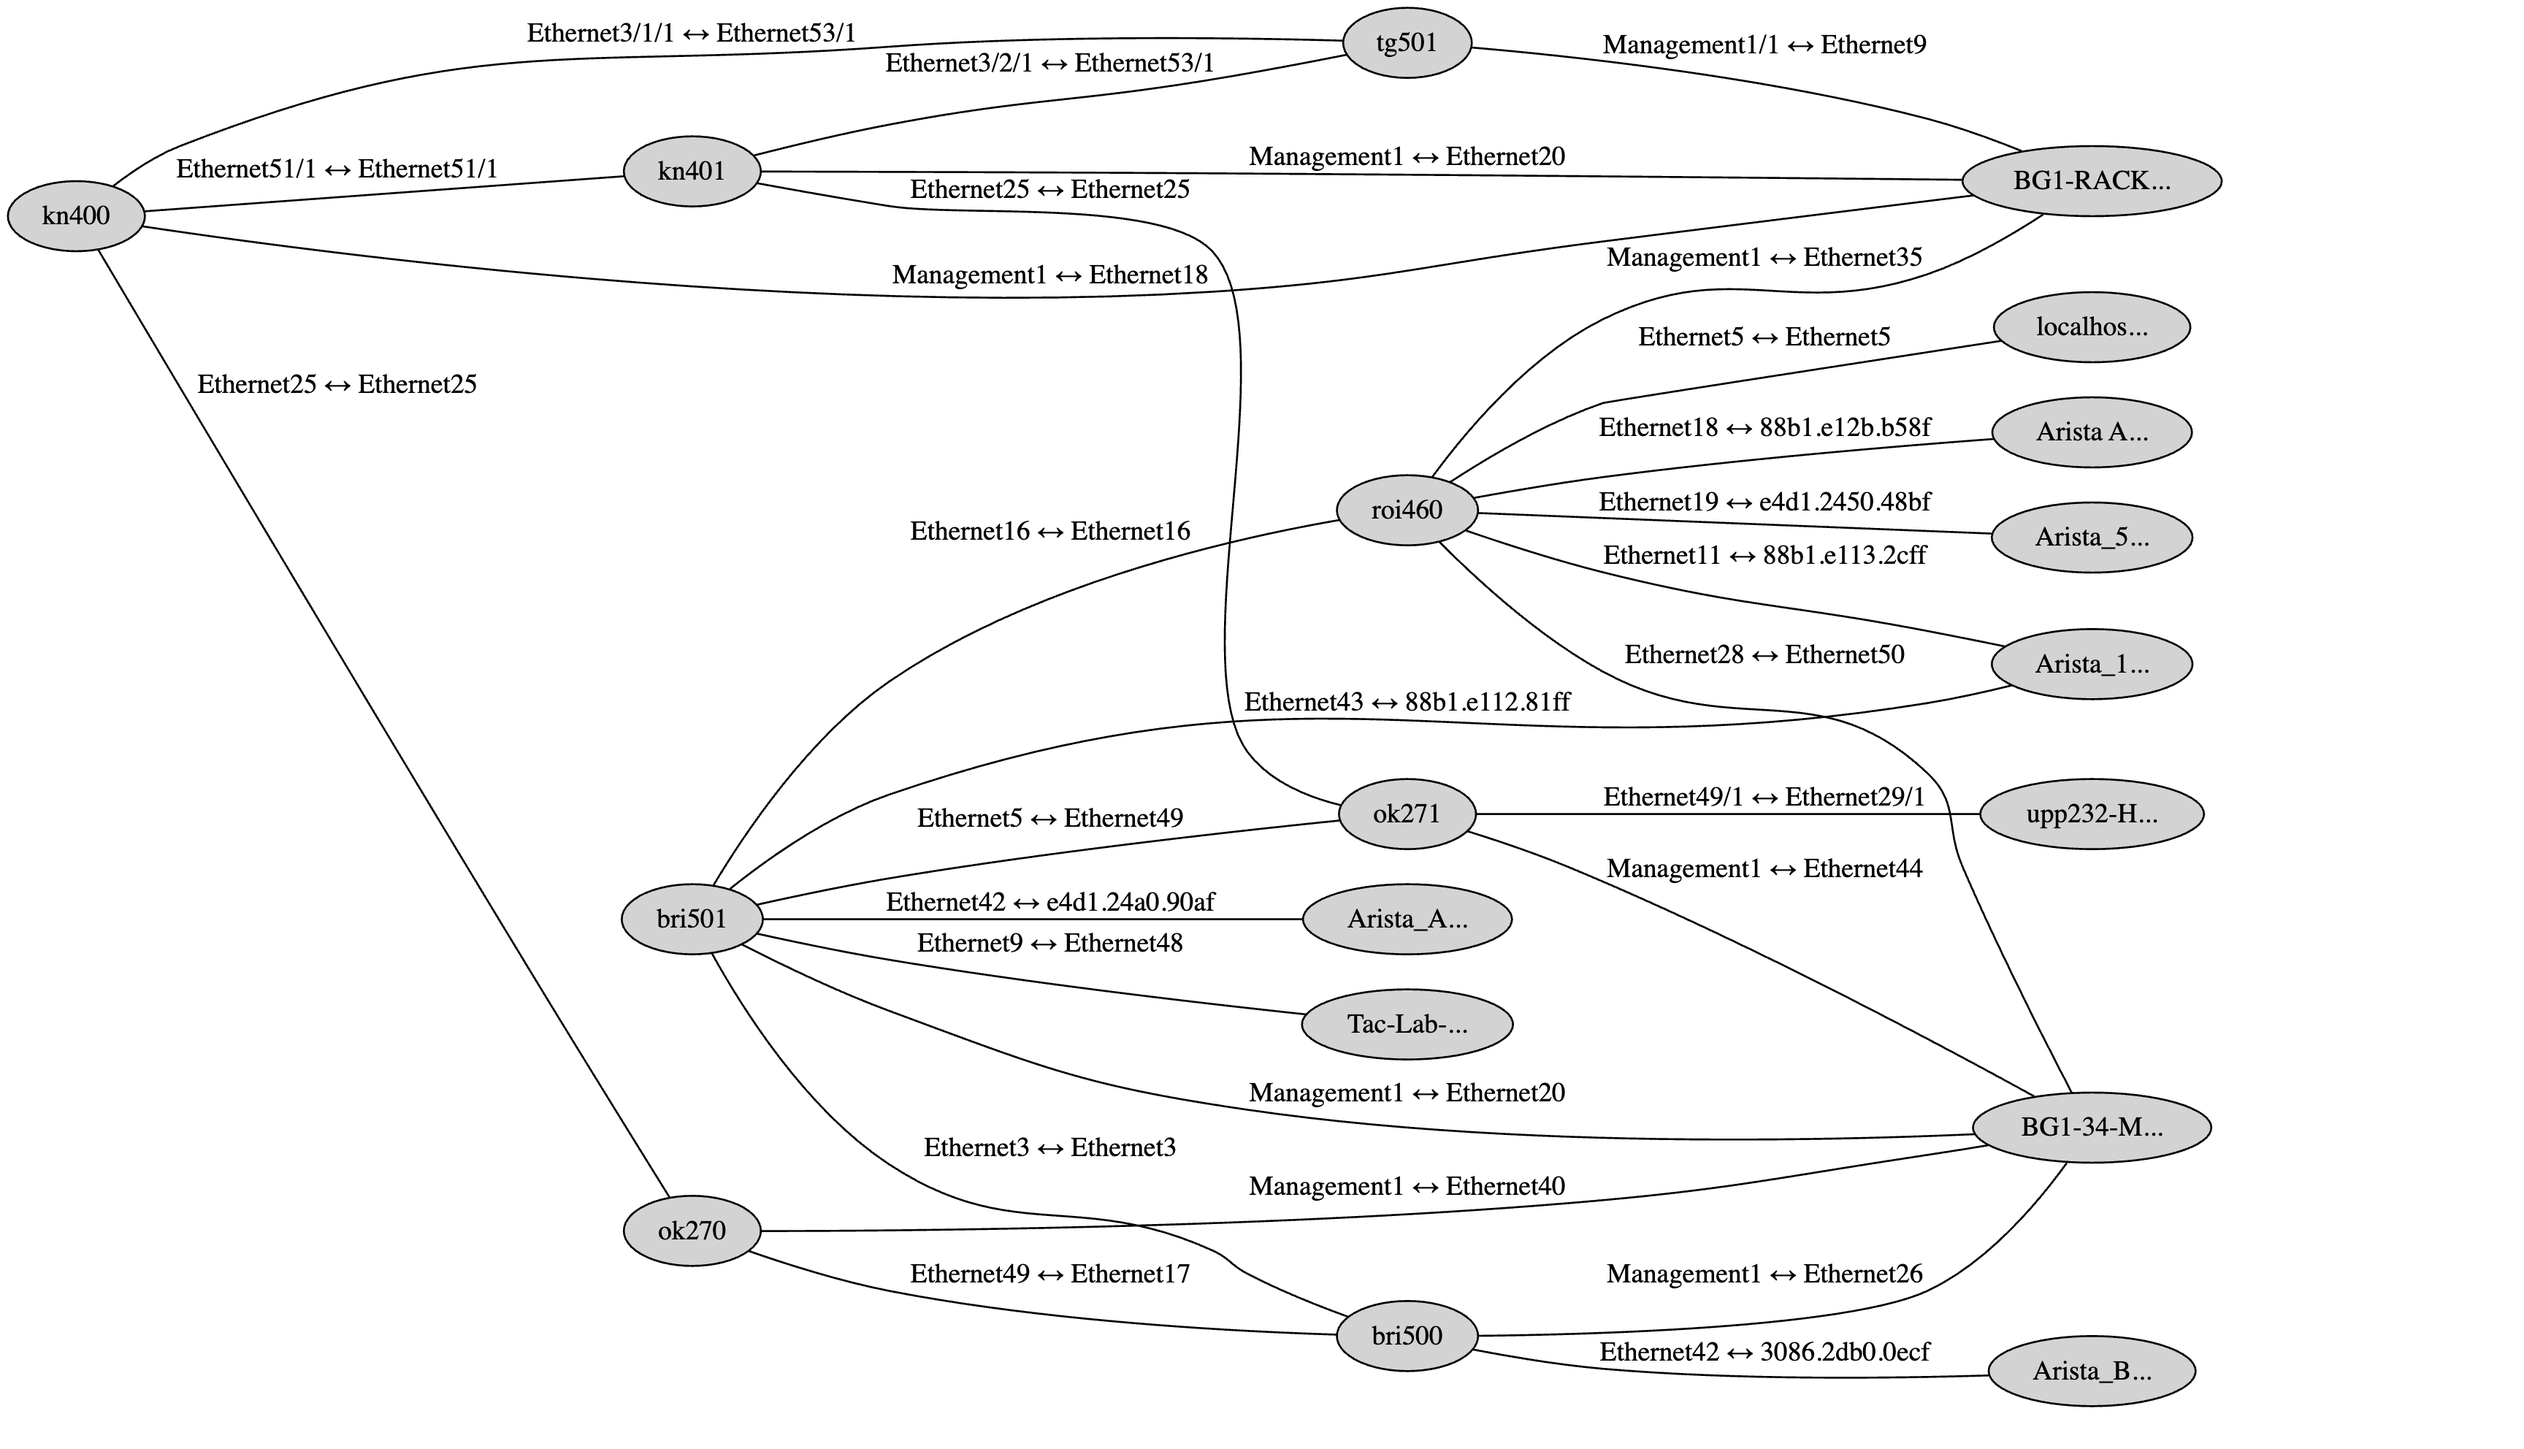
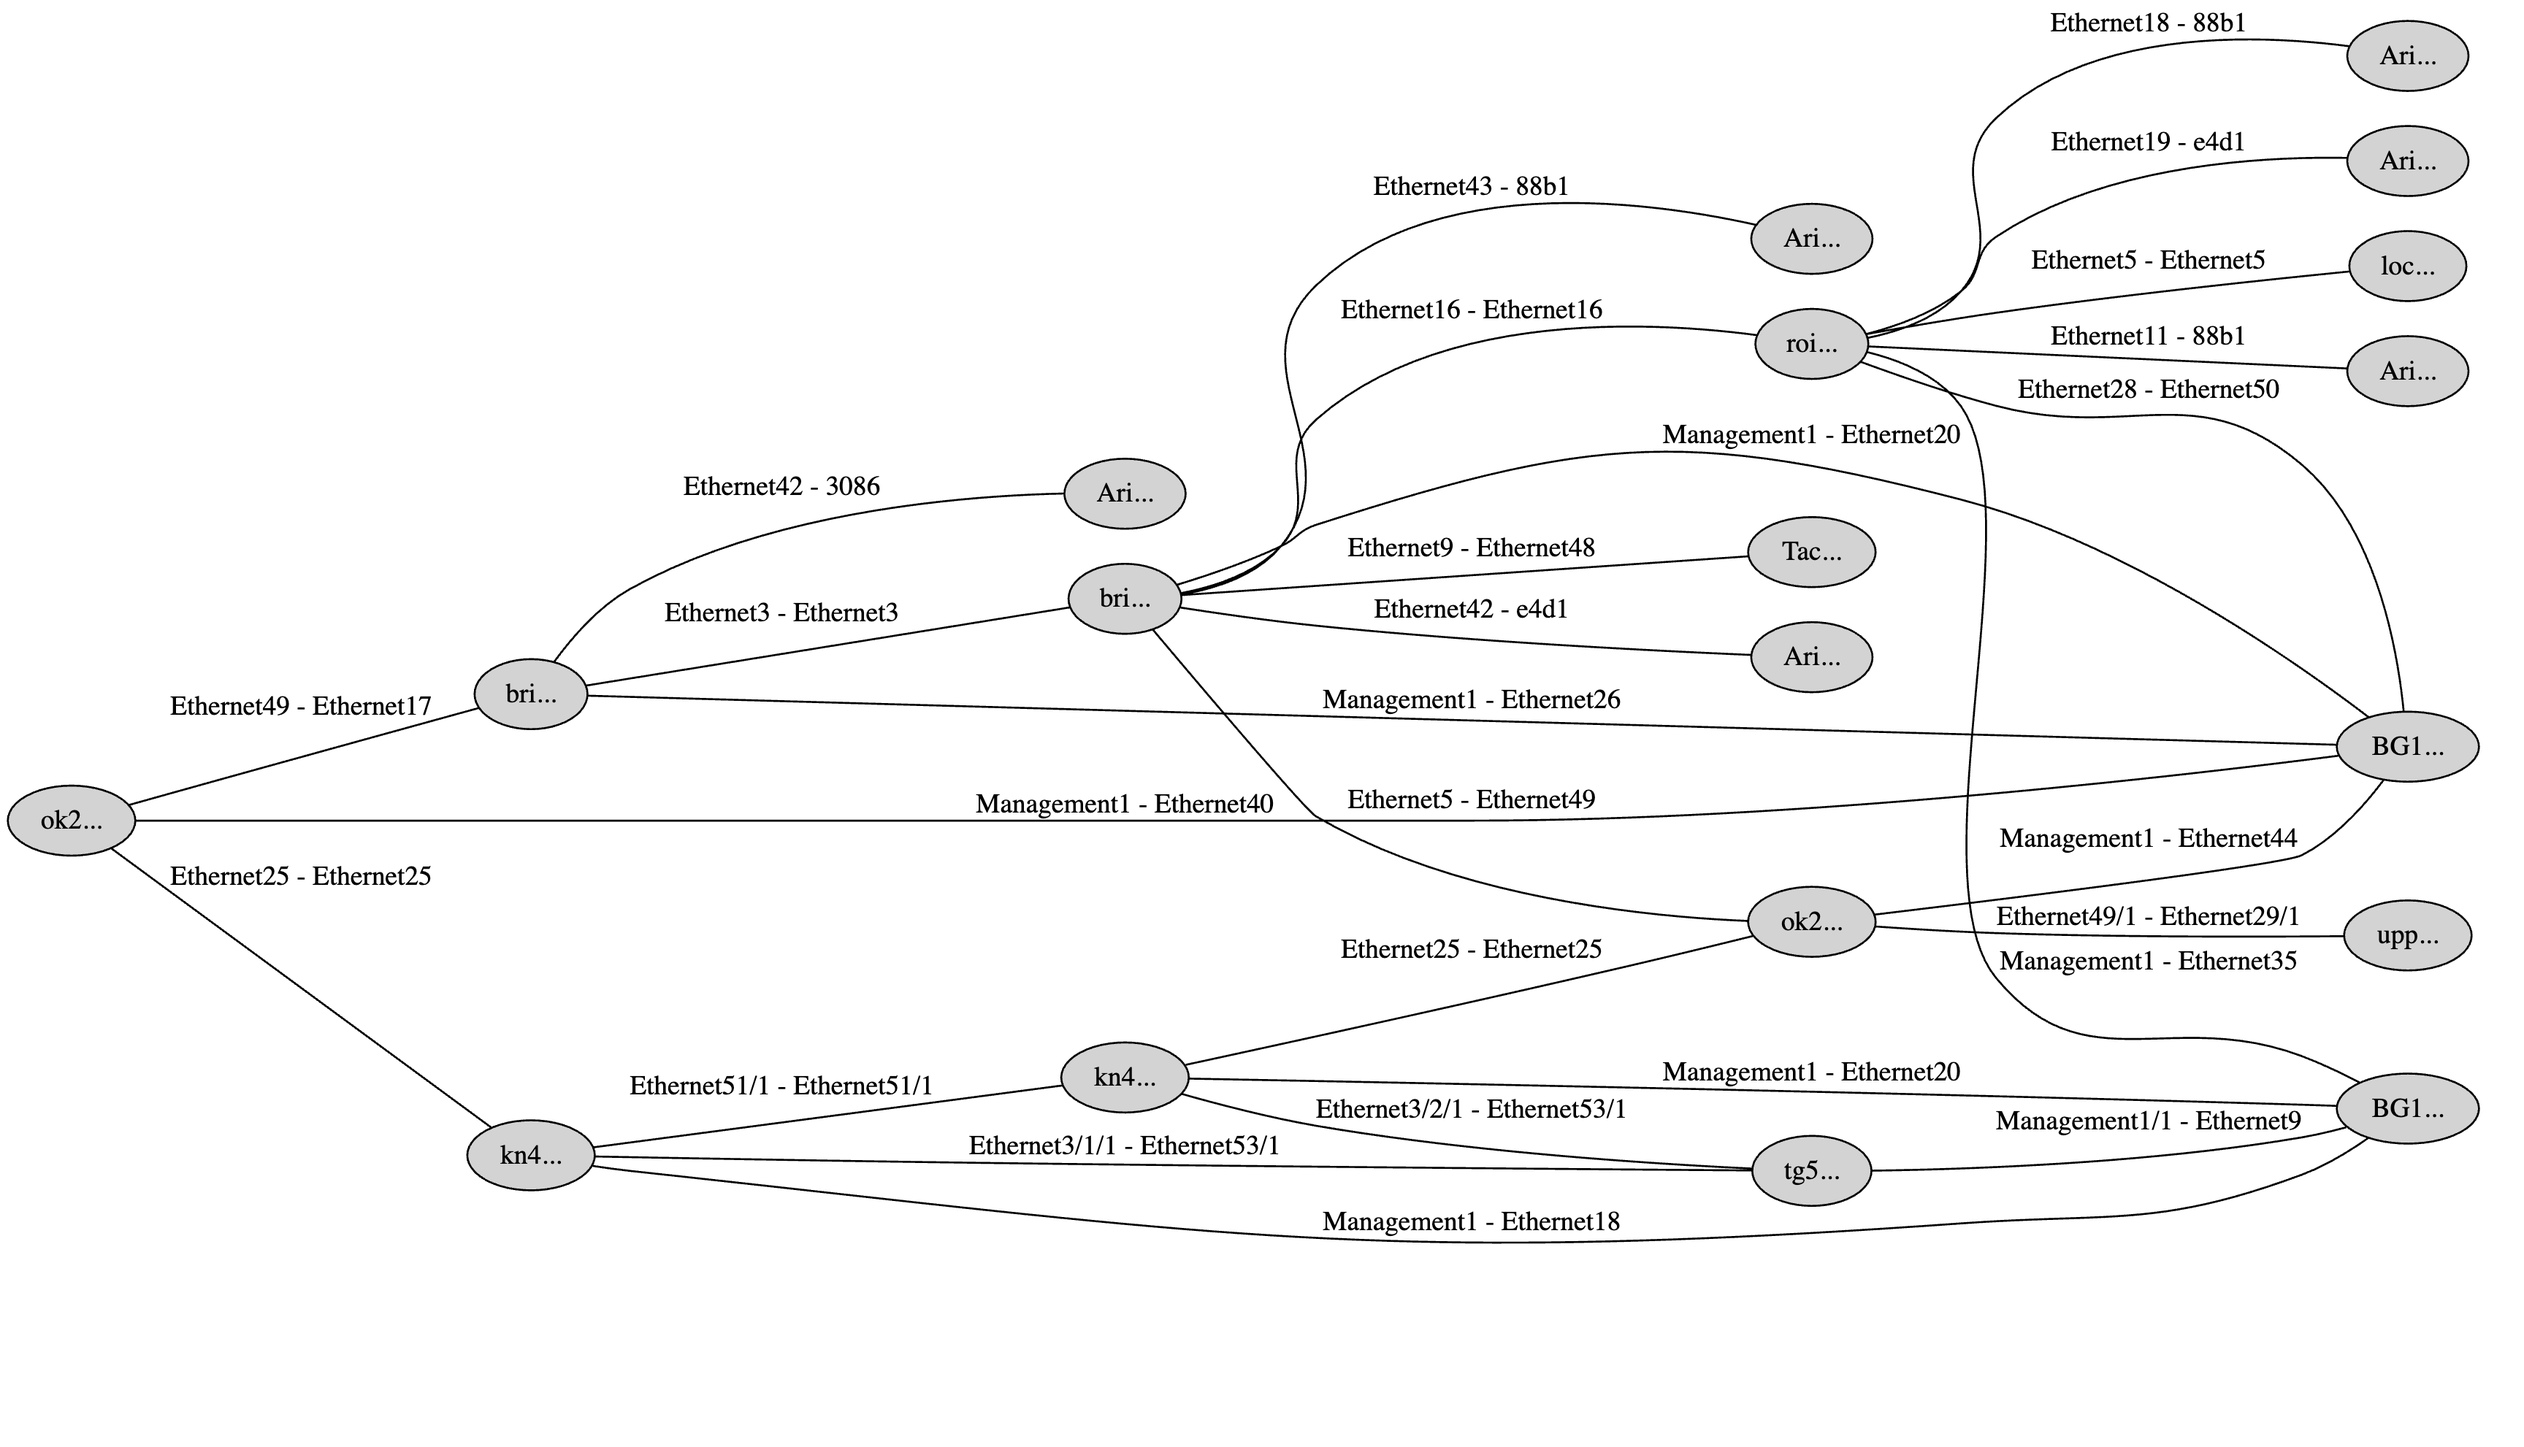
Fixed truncate issue while creating nodes

diff --git a/internal/visualizer/graphviz.go b/internal/visualizer/graphviz.go
@@ -8,6 +8,7 @@ import (
 	"opennetworktools/netmap/internal/utils"
 	"os"
 	"path/filepath"
+	"strings"
 
 	"aqwari.net/xml/xmltree"
 	"github.com/goccy/go-graphviz"
@@ -42,11 +43,12 @@ func SaveTopologyWithGraphviz(ctx context.Context, networkMap *NetworkMap, times
 
 	// Create nodes
 	for device := range networkMap.Devices {
-		node, err := graph.CreateNodeByName(utils.TruncateString(device, 8))
+		node, err := graph.CreateNodeByName(device)
 		if err != nil {
 			fmt.Println("Error creating node:", err)
 			continue
 		}
+		node.SetLabel(utils.TruncateString(device, 3))
 		node.SetShape(cgraph.EllipseShape)
 		node.SetStyle(cgraph.FilledNodeStyle)
 		nodes[device] = node
@@ -57,11 +59,12 @@ func SaveTopologyWithGraphviz(ctx context.Context, networkMap *NetworkMap, times
 		for _, edge := range edges {
 			neighbor := edge.Neighbor
 			if nodes[neighbor] == nil {
-				node, err := graph.CreateNodeByName(utils.TruncateString(neighbor, 8))
+				node, err := graph.CreateNodeByName(neighbor)
 				if err != nil {
 					fmt.Println("Error creating node:", err)
 					continue
 				}
+				node.SetLabel(utils.TruncateString(neighbor, 3))
 				node.SetShape(cgraph.EllipseShape)
 				node.SetStyle(cgraph.FilledNodeStyle)
 				nodes[neighbor] = node
@@ -72,7 +75,7 @@ func SaveTopologyWithGraphviz(ctx context.Context, networkMap *NetworkMap, times
 				fmt.Println("Error creating edge:", err)
 				continue
 			}
-			e.SetLabel(fmt.Sprintf("%s ↔ %s", edge.LocalPort, edge.NeighborPort))
+			e.SetLabel(fmt.Sprintf("%s - %s", formatEdgeName(edge.LocalPort), formatEdgeName(edge.NeighborPort)))
 		}
 	}
 
@@ -166,4 +169,12 @@ func renderOutputToFilename(filePath string, outData []byte) error {
 	}
 
 	return nil
+}
+
+func formatEdgeName(name string) string {
+	if strings.Contains(name, ".") {
+		parts := strings.Split(name, ".")
+		return parts[0]
+	}
+	return name
 }

diff --git a/README.md b/README.md
@@ -1,8 +1,12 @@
 # Netmap
 
-Netmap stands for Network Mapper, a visualizer for your inventory of network devices. Netmap starts collecting LLDP information with a single device credential and recursively collects neighbor of neighbors information. Built with love by Roopesh and friends in Go.
+Netmap stands for Network Mapper, a visualizer for your inventory of network devices. Netmap starts collecting LLDP information with a single device credential and recursively lookup to create a graph. At the moment the tool supports only Arista devices. 
+
+Built with love by Roopesh and friends in Go.
 
 ## Usage
+
+The graph can be created using the command `netmap create`,
 
 ```
 roopesh:~/ $ netmap create --help                                                                                                                                                                         
@@ -21,5 +25,5 @@ roopesh:~/ $ netmap create -n ok270 -u admin -p password
 
 <figure>
   <img src="./graph.png" alt="Graph created by netmap">
-  <figcaption>Graph created by Netmap</figcaption>
+  <figcaption>The above graph was created by Netmap. The labels of nodes and edges are truncated for privacy concerns.</figcaption>
 </figure>
